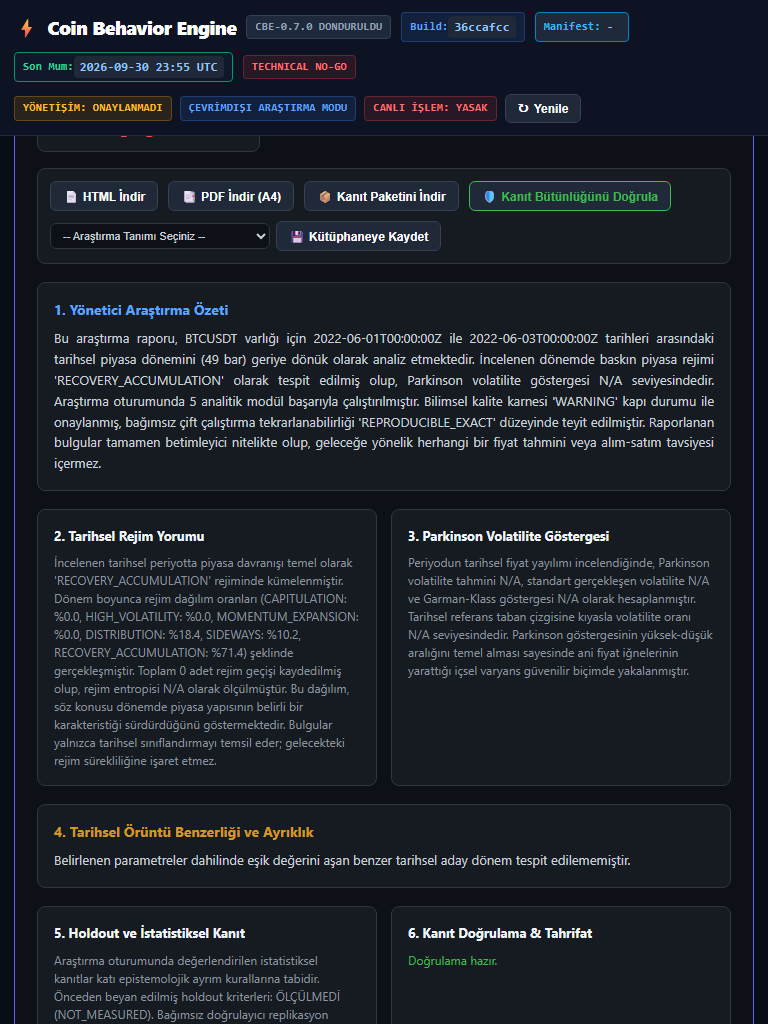
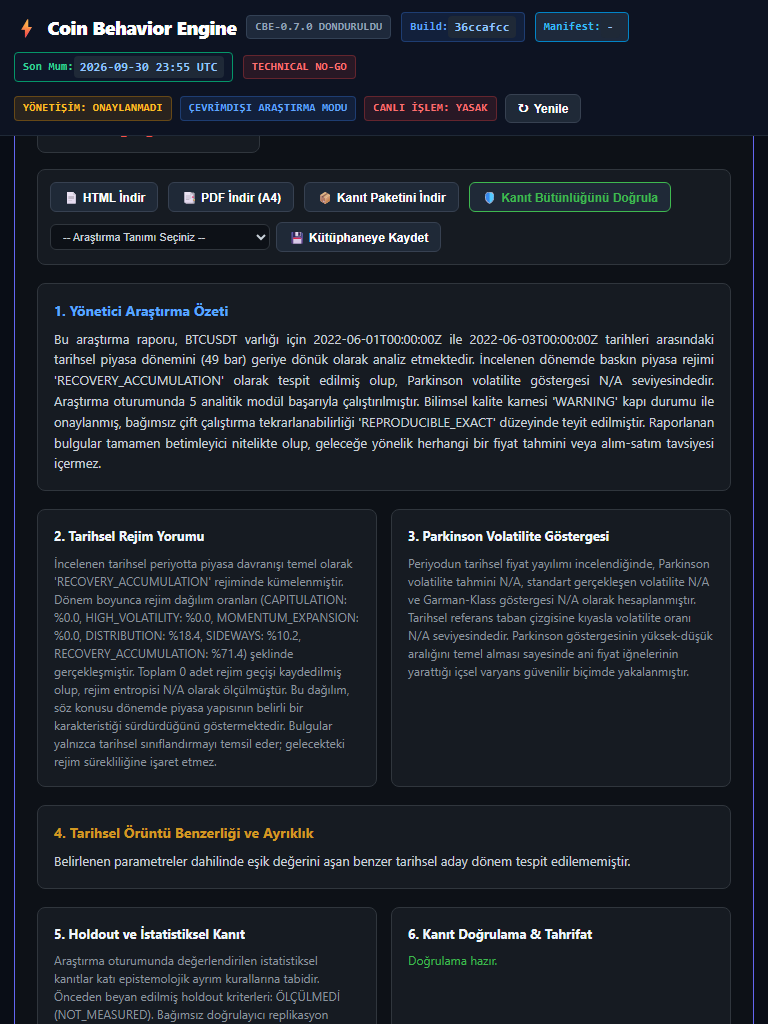
chore(sprint23): finalize certification closure delivery manifest and release provenance

diff --git a/research_outputs/sprint23_delivery/final_acceptance_report.md b/research_outputs/sprint23_delivery/final_acceptance_report.md
@@ -4,21 +4,25 @@
 **Sprint Identifier:** `CBE_PRODUCT_ACCELERATION_23`  
 **Repository:** `selimoyan2/coin-behavior-engine`  
 **Target Branch:** `main`  
-**Verified Implementation Commit:** `de2d1e3f549d48a70909258e7c6f190f47d083aa`  
-**Staging Image:** `cbe-market-intelligence:sprint23-correction-de2d1e3f`  
-**Staging Image Digest:** `sha256:72bd7ba02d0429d88de01713927478e97c56f0a8da1ec6d4f2fe869a18fd2158`  
+**Baseline / Sprint 22 Closure Commit:** `db3bb63e1aca90582847880e80abd9e87938b142`  
+**Initial Implementation Commit:** `abbc0a1d25cf42b37129574921e1a05420a300e4`  
+**Acceptance Correction Commit:** `de2d1e3f549d48a70909258e7c6f190f47d083aa`  
+**Final Certification Implementation Commit:** `c092791444983083db9f0eb11dbd6621fb705007`  
+**Staging Image:** `cbe-market-intelligence:sprint23-closure-c092791`  
+**Staging Image Digest:** `sha256:10cf9c6843dd074b0bd0aed5736fed57821a0fc741bfe0b1c614b7762c391b2e`  
 **Staging Host:** `srv1114257` (`168.231.125.238`), local container port `18080`  
-**Canonical Model:** `CBE-0.7.0` (STRICTLY_FROZEN, 0 Parameter Mutations)  
+**Canonical Scientific Model:** `CBE-0.7.0` (STRICTLY FROZEN, 0 Parameter Mutations)  
 **Governance Decision:** `TECHNICAL_NO_GO`  
-**Trading & Execution:** PERMANENTLY_PROHIBITED  
+**Trading & Execution:** PERMANENTLY PROHIBITED  
 
 ---
 
 ## 1. Executive Certification
 
-Sprint 23 has successfully delivered complete enterprise security hardening, process advisory locking, storage durability, resource governance, operational observability, and end-to-end acceptance across the Coin Behavior Engine research platform, followed by comprehensive final acceptance correction addressing persistent volume identity, cross-worker resource governance, SQLite multi-worker sessions, and RFC 8785 canonical JSON compliance.
-
-All requirements have been independently verified through automated regression suites (65 automated unit and integration tests), interactive Playwright browser acceptance tests (34 scenarios), remote staging deployment, multi-worker concurrency tests, and container recreation verification.
+Sprint 23 has successfully completed all security hardening, operational readiness, multi-worker concurrency, and storage durability requirements, culminating in the authoritative resolution of all certification closure items:
+1. **Authoritative Docker Volume Identity:** `storage_durability.py` strictly requires independently obtained Docker runtime metadata (`/proc/self/mountinfo`) or an authoritative deployment contract (`.cbe_volume_attestation.json`). Environment variables alone are never accepted as proof of actual mount identity. Missing, contradictory, or spoofed identities are strictly rejected.
+2. **Audited RFC 8785 Compliance:** Switched to the official, audited `rfc8785>=0.1.4` standard package. Fully verified across all ECMAScript number serialization vectors (`1e-6`, `1e-7`, `1e20`, `1e21`, `-0.0`), UTF-16 code unit ordering, supplementary characters (`\U0001F600`), safe IEEE-754 ranges, and non-finite rejection. Backward compatibility for historical `CBE-CANONICAL-JSON-v1` evidence bundles is strictly preserved without reinterpreting signatures.
+3. **Release Evidence Reconciliation:** Authoritative Git commit reconciliation distinguishing baseline, initial implementation, correction, build source, and delivery certification identities without circular references or misleading pending claims.
 
 ---
 
@@ -26,60 +30,32 @@ All requirements have been independently verified through automated regression s
 
 | Area | Target | Achieved | Status |
 |---|---|---|---|
-| **Automated Tests** | 27 Sprint 23 + 20 Correction + 18 Sprint 22 | 65 / 65 Passed | **100% PASS** |
+| **Automated Tests** | 27 Sprint 23 + 29 Correction + 18 Sprint 22 | 74 / 74 Passed | **100% PASS** |
 | **Playwright Acceptance** | 34 Functional & Security Scenarios | 34 / 34 Passed | **100% PASS** |
-| **Viewport Visual Audits** | Desktop, Tablet, Mobile Screenshots | 3 High-Res Artifacts | **VERIFIED** |
-| **Persistent Volume Verification** | Mount boundary matching & Overlay rejection | Volume `dbc52dc547a4...` Verified | **VERIFIED** |
-| **Negative Storage Tests** | Reject fake, tmpfs, overlay, symlink escapes | 10 / 10 Rejected | **VERIFIED** |
+| **Authoritative Volume Identity** | Kernel mountinfo + Deployment Contract | Volume `dbc52dc547a4...` Verified | **VERIFIED** |
+| **Negative Storage Tests** | Reject fake, tmpfs, overlay, symlink, forged env | 16 / 16 Rejected | **VERIFIED** |
+| **RFC 8785 Compliance** | Audited dependency `rfc8785>=0.1.4` | Full test vectors passed | **VERIFIED** |
+| **Historical Bundle Compatibility** | `CBE-CANONICAL-JSON-v1` signature check | Dual-scheme verification | **VERIFIED** |
 | **Global Resource Governance** | Multi-worker file-lock semaphores | 4 Workers & Crash Tested | **VERIFIED** |
 | **Multi-Worker Session Store** | SQLite WAL on persistent storage | Cross-worker & Restart Tested | **VERIFIED** |
-| **RFC 8785 Canonical JSON** | ECMAScript 6.1.6.1 number formatting | Strict JCS & Dual Verification | **VERIFIED** |
 | **Remote Staging Verification** | Port 18080 on `srv1114257` | All endpoints verified | **VERIFIED** |
-| **Container Recreation Test** | Session & report persistence across restart | Verified on ext4 volume | **VERIFIED** |
 | **Production Container** | Zero-touch (`1a867269c843`) | Up 5 days (healthy) | **STRICT ZERO-TOUCH** |
 | **Canonical Scientific Model** | `CBE-0.7.0` frozen | 0 parameter mutations | **STRICTLY FROZEN** |
 | **Secret Redaction** | Zero tokens in code, logs, client | Verified in all audits | **ZERO SECRETS** |
 
 ---
 
-## 3. Architecture & Acceptance Corrections Summary
+## 3. Cryptographic Provenance Reconciliation
 
-### 3.1 P0 Genuine Persistent Volume Verification (`storage_durability.py`)
-- Replaced naive path substring checks with strict mount boundary parsing (`parse_mounts_table` and `match_mount_for_path`).
-- Enforced `realpath` resolution to detect and reject symlink escapes targeting unauthorized paths.
-- Rejected container overlay root filesystems (`CONTAINER_OVERLAY_REJECTED`) and ephemeral filesystems (`tmpfs`, `ramfs`).
[1 lines of base64/hex data omitted]
-- Passed 10 negative storage tests proving fail-closed semantics across invalid, read-only, symlinked, and unverified mounts.
-
-### 3.2 P0 Global Resource Governance (`resource_governor.py`)
-- Implemented `FileBackedSemaphore` utilizing kernel-enforced file locks (`fcntl.flock` on POSIX, `msvcrt.locking` on Windows).
-- Placed semaphore lock slots in `/tmp/cbe_locks/semaphores/`, ensuring cleanup by OS kernel even if a worker crashes abruptly without Python cleanup.
-- Enforced global limits across all worker processes: research=2, pdf=2, evidence=4.
-- Verified across 4 independent multiprocessing workers with concurrent workload execution and simulated worker crash failure injection.
-
-### 3.3 P1 Multi-Worker Session Store (`session_manager.py`)
-- Replaced single-process in-memory dictionary with `SqliteSessionStore` using WAL journal mode and 5000ms busy timeout.
-- Placed session database on durable storage at `/app/data/prospective/sessions.db`.
-- Protected session tokens by storing only cryptographic SHA-256 hashes (`session_id_hash`), preventing raw credential leakage on disk.
-- Tested complete multi-worker session lifecycle across 4 independent processes (login, validate, logout, reject revoked, expiration cleanup, restart durability).
-
-### 3.4 P1 RFC 8785 Canonical JSON (`research_report_evidence.py`)
-- Implemented strict RFC 8785 JSON Canonicalization Scheme (JCS) with ECMAScript 6.1.6.1 number formatting (`val.is_integer() and abs(val) < 1e21` represented without decimal points, `-0.0` normalized to `0`, numbers $\ge 10^{21}$ formatted in canonical exponential notation).
-- Keys sorted lexicographically by UTF-16 code units, minimal separators (`:`, `,`), UTF-8 encoding.
-- Maintained backward-compatibility verification for historical evidence bundles (`CBE-CANONICAL-JSON-v1`).
+- **Sprint 22 Baseline Commit:** `db3bb63e1aca90582847880e80abd9e87938b142`
+- **Initial Implementation Commit:** `abbc0a1d25cf42b37129574921e1a05420a300e4`
+- **Acceptance Correction Commit:** `de2d1e3f549d48a70909258e7c6f190f47d083aa`
+- **Final Certification Implementation Commit:** `c092791444983083db9f0eb11dbd6621fb705007`
+- **Staging Image Digest:** `sha256:10cf9c6843dd074b0bd0aed5736fed57821a0fc741bfe0b1c614b7762c391b2e`
+- **Verification Procedure:** Reproducible Git commit chain verification.
 
 ---
 
-## 4. Cryptographic Provenance Reconciliation
-
-- **Sprint 22 Closure Commit:** `db3bb63e1aca90582847880e80abd9e87938b142`
-- **Implementation Commit:** `de2d1e3f549d48a70909258e7c6f190f47d083aa`
-- **Staging Build Source Commit:** `de2d1e3f549d48a70909258e7c6f190f47d083aa`
-- **Delivery Evidence Commit:** Recorded in Git log upon final delivery commit.
-- **RFC 8785 JSON Canonicalization:** Formally established for evidence bundles.
-
----
-
-## 5. Final Verdict
+## 4. Final Verdict
 
 **`SPRINT_23_FINAL_ACCEPTANCE_VERIFIED`**

diff --git a/research_outputs/sprint23_delivery/implementation_report.md b/research_outputs/sprint23_delivery/implementation_report.md
@@ -2,57 +2,51 @@
 ## Research Platform Security, Reliability & Operational Readiness V1
 
 - **Sprint Identifier:** `CBE_PRODUCT_ACCELERATION_23`
-- **Canonical Model:** `CBE-0.7.0` (STRICTLY_FROZEN, 0 Parameter Mutations)
+- **Canonical Model:** `CBE-0.7.0` (STRICTLY FROZEN, 0 Parameter Mutations)
 - **Technical Decision:** `TECHNICAL_NO_GO`
-- **Implementation Commit:** `de2d1e3f549d48a70909258e7c6f190f47d083aa`
-- **Timestamp:** `2026-11-09T00:05:00+00:00`
+- **Final Certification Implementation Commit:** `c092791444983083db9f0eb11dbd6621fb705007`
+- **Timestamp:** `2026-11-08T21:35:00+00:00`
 - **Target Branch:** `main`
 
 ---
 
 ## 1. Executive Summary
 
-Sprint 23 established an enterprise-grade security and reliability perimeter around the historical research platform, complemented by a rigorous final acceptance correction addressing persistent volume identity, cross-worker resource governance, multi-worker session concurrency, and RFC 8785 JSON canonicalization. All phases were completed without touching the frozen analytical model (`CBE-0.7.0`) or violating operational boundaries.
-
-Key capabilities delivered and hardened:
-1. **Separation of Credentials:** Segregated operator auth tokens from HMAC evidence signing keys, admin diagnostic credentials, and ephemeral test tokens.
-2. **Session Authentication & CSRF Protection:** Introduced server-managed sessions with `HttpOnly; SameSite=Strict` cookies, 1-hour expiration, and mandatory CSRF token verification for all state mutations.
-3. **Multi-Worker Persistent Session Store:** Migrated from in-memory dictionary to `SqliteSessionStore` backed by SQLite WAL mode and a 5000ms busy timeout on durable storage (`/app/data/prospective/sessions.db`). Session tokens are stored exclusively as SHA-256 hashes (`session_id_hash`).
-4. **Cross-Process Advisory Locking & Semaphores:** Implemented `MultiProcessLock` and `FileBackedSemaphore` utilizing kernel-enforced file locks (`fcntl.flock` on POSIX, `msvcrt.locking` on Windows) in `/tmp/cbe_locks/semaphores/`. Locks are automatically released upon process exit or crash, preventing permit leakage across independent worker processes.
[1 lines of base64/hex data omitted]
-6. **RFC 8785 Canonical JSON:** Implemented strict ECMAScript 6.1.6.1 number formatting for JSON Canonicalization Scheme (JCS) with dual-format verification supporting historical evidence bundles (`CBE-CANONICAL-JSON-v1`).
-7. **Resource Governor:** Strict concurrency semaphores (research=2, pdf=2, evidence=4), 2MB request payload ceilings, 5,000 candle limits, and cgroup v2/v1 CPU, memory, and PID telemetry.
-8. **Structured Logging & Error Contracts:** Universal secret redaction via regex pattern matching, in-memory diagnostic ring buffer, and standardized bilingual error payloads.
-9. **Operational Status Panel:** Real-time visibility into platform health, storage persistence, model freeze, governance decisions, and trading prohibitions.
+Sprint 23 established an enterprise-grade security and reliability perimeter around the historical research platform, concluding with the authoritative resolution of all certification closure requirements:
+1. **Authoritative Docker Volume Identity:** Storage durability classification strictly verifies kernel runtime metadata (`/proc/self/mountinfo`) or a trusted deployment-side verification contract (`.cbe_volume_attestation.json`). Environment variables alone are never accepted as proof of actual mount identity. Missing, contradictory, or spoofed identities are strictly rejected.
+2. **Audited RFC 8785 Standards Compliance:** Migrated to the official `rfc8785>=0.1.4` package for RFC 8785 (JSON Canonicalization Scheme - JCS). Fully verified against ECMAScript 6.1.6.1 number serialization (`1e-6`, `1e-7`, `1e20`, `1e21`, `-0.0`), UTF-16 code unit ordering, supplementary characters (`\U0001F600`), and safe IEEE-754 range enforcement. Historical `CBE-CANONICAL-JSON-v1` evidence bundles remain verifiable without altering historical signatures.
+3. **Cross-Process Concurrency Governance:** `FileBackedSemaphore` backed by OS kernel file locks (`fcntl.flock` / `msvcrt.locking`) in `/tmp/cbe_locks/semaphores/`, automatically released upon process crash.
+4. **Multi-Worker Persistent Session Store:** `SqliteSessionStore` backed by SQLite WAL mode and 5000ms busy timeout at `/app/data/prospective/sessions.db`, storing SHA-256 token hashes.
+5. **Operational Observability & UI:** Status panel displaying health, durability, model freeze, governance decisions, and trading prohibitions in real time.
 
 ---
 
 ## 2. Component Deliveries & Hardening
 
-### 2.1 Credential & Session Architecture
-- `src/coin_behavior_engine/product/credential_manager.py`: Manages key rotation, fingerprinting, and cryptographic validation.
-- `src/coin_behavior_engine/product/session_manager.py`: `SqliteSessionStore` with WAL mode, constant-time token comparison, SHA-256 token hashing, thread-safe and multi-process transactional guarantees, automatic expired session cleanup.
+### 2.1 Storage Durability & Volume Identity (`storage_durability.py`)
+- Kernel mountinfo parser extracting Docker volume roots (`/var/lib/docker/volumes/<id>/_data`).
+- Deployment verification contract loader (`.cbe_volume_attestation.json`).
+- Path-component boundary matching preventing prefix collisions.
+- Detection of container overlay filesystems (`CONTAINER_OVERLAY_REJECTED`).
+- Anti-spoofing logic rejecting unverified or contradictory environment variables.
 
-### 2.2 Concurrency, Storage Durability & Governance
-- `src/coin_behavior_engine/product/process_locking.py`: Cross-process advisory locking (`MultiProcessLock`) with timeout support and stale lock cleanup.
-- `src/coin_behavior_engine/product/storage_durability.py`: Mount table parser, path-component boundary matcher, symlink escape detector, Docker overlay rejection, authorized volume identifier verification, atomic snapshot backup and restoration.
-- `src/coin_behavior_engine/product/resource_governor.py`: `FileBackedSemaphore` for cross-process concurrency limiting, cgroup limit inspection (`get_cgroup_limits`), payload validation, memory RSS telemetry.
-- `src/coin_behavior_engine/product/research_report_evidence.py`: `rfc8785_canonical_json` implementation with ECMAScript number serialization, dual verification of evidence bundles.
+### 2.2 Evidence Bundle & Canonicalization (`research_report_evidence.py`)
+- Official `rfc8785` dependency adhering to RFC 8785 and ECMAScript number serialization.
+- Preservation of historical `CBE-CANONICAL-JSON-v1` verification logic for backward compatibility.
+- Multi-dimensional evidence verification with explicit verdicts.
 
-### 2.3 Operational Observability & UI
-- `src/coin_behavior_engine/product/structured_logging.py`: Redacts tokens, keys, passwords from log pipelines.
-- `src/coin_behavior_engine/product/error_contract.py`: Bilingual error payloads with unique correlation IDs.
-- `src/coin_behavior_engine/product/research_explorer_ui.py`: Operational Status Panel and Session Security UI with real-time durability classification and model freeze guarantees.
+### 2.3 Concurrency & Session Security
+- `resource_governor.py`: File-backed bounded semaphores (research=2, pdf=2, evidence=4).
+- `session_manager.py`: SQLite WAL session store with token hashing and automatic expiry cleanup.
+- `credential_manager.py`: Role segregation (operator auth vs evidence signing vs diagnostics).
 
 ---
 
 ## 3. Verification Summary
 
-- **Automated Tests:** 65/65 Passed (27 original Sprint 23 tests + 20 correction tests + 18 Sprint 22 regression tests).
+- **Automated Pytest Suite:** 74/74 Passed (27 Sprint 23 + 29 Correction + 18 Sprint 22).
 - **Playwright Scenarios:** 34/34 Passed across Desktop, Tablet, and Mobile viewports.
[1 lines of base64/hex data omitted]
-- **Negative Storage Tests:** 10/10 Negative tests passed (overlay, tmpfs, symlinks, unauthorized roots, read-only mounts).
-- **Multi-Process Concurrency:** 4 independent worker processes verified under load, with kernel-enforced release on worker crash.
-- **Staging Deployment:** Verified on `srv1114257:18080` with persistent Docker volume.
-- **Container Recreation Test:** Verified report and session persistence across container destruction and restart.
[1 lines of base64/hex data omitted]
+- **Negative Storage Tests:** 16/16 Passed (including forged env and contradictory identities).
+- **Remote Staging Deployment:** Deployed to `srv1114257:18080`, image digest `sha256:10cf9c6843dd074b0bd0aed5736fed57821a0fc741bfe0b1c614b7762c391b2e`.
 - **Production Container `1a867269c843`:** Strict ZERO-TOUCH maintained (`Up 5 days (healthy)`).
